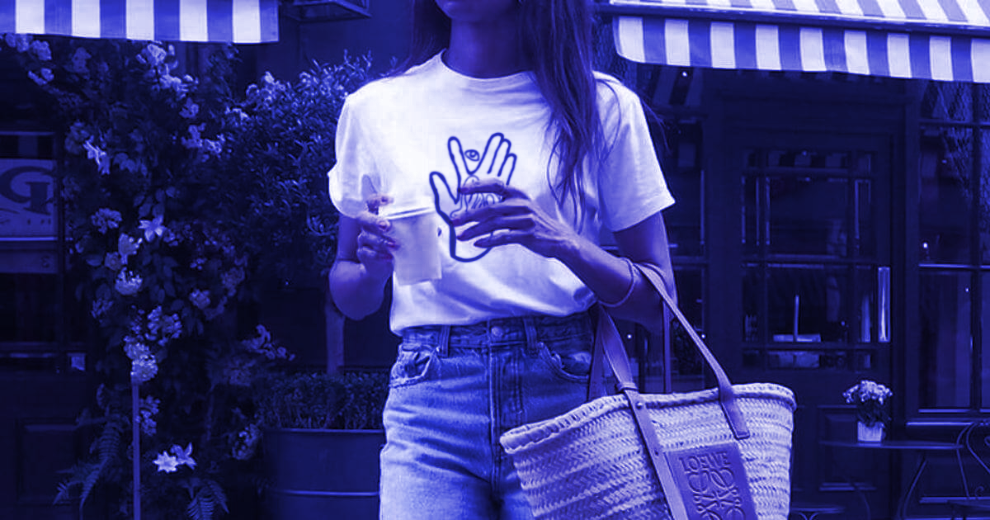
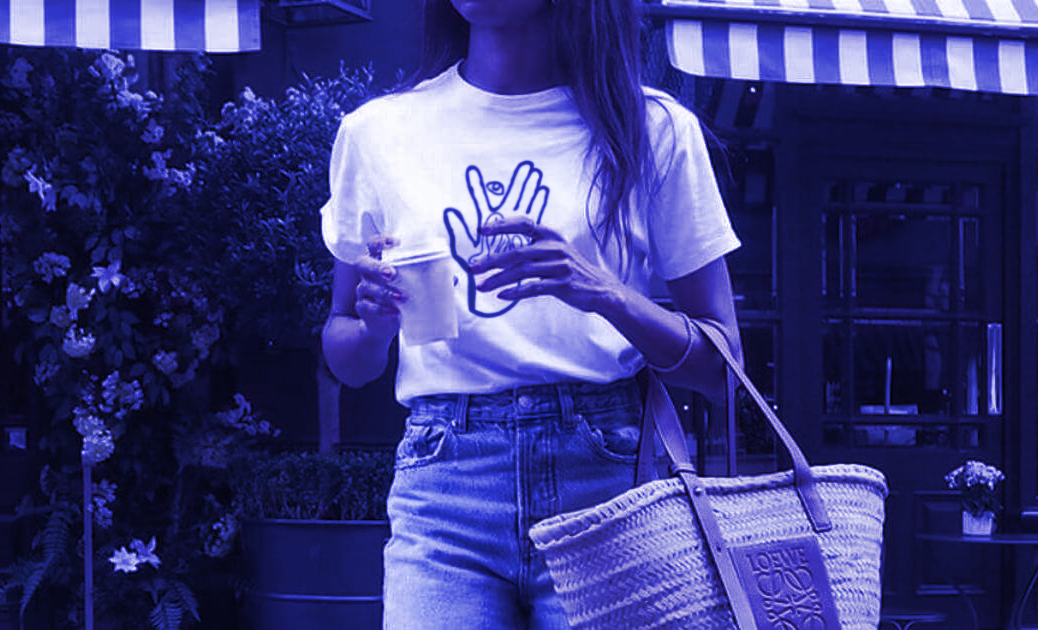
added two blue tint images

diff --git a/css/style.css b/css/style.css
@@ -158,3 +158,24 @@ svg:hover {
 
 }
 
+.blueone{
+    width:30%;
+    height: 600px;
+    margin: 10px 10px;
+    background-size: contain;
+    margin-right: -5px;
+    
+
+}
+
+.bluetwo{
+    width: 67.7%;
+    height: 600px;
+    margin: 10px 10px;
+    float: right;
+    background-size: cover;
+    margin-left: -5px;
+}
+
+
+

diff --git a/index.html b/index.html
@@ -49,6 +49,15 @@
             
         </div>
 
+        <div class=>
+            <img class="blueone" src="img/oversized.png">
+            <img class="bluetwo" src="img/bw_shirt.png">
+
+
+        </div>
+
+        
+
 
         
 </body>
